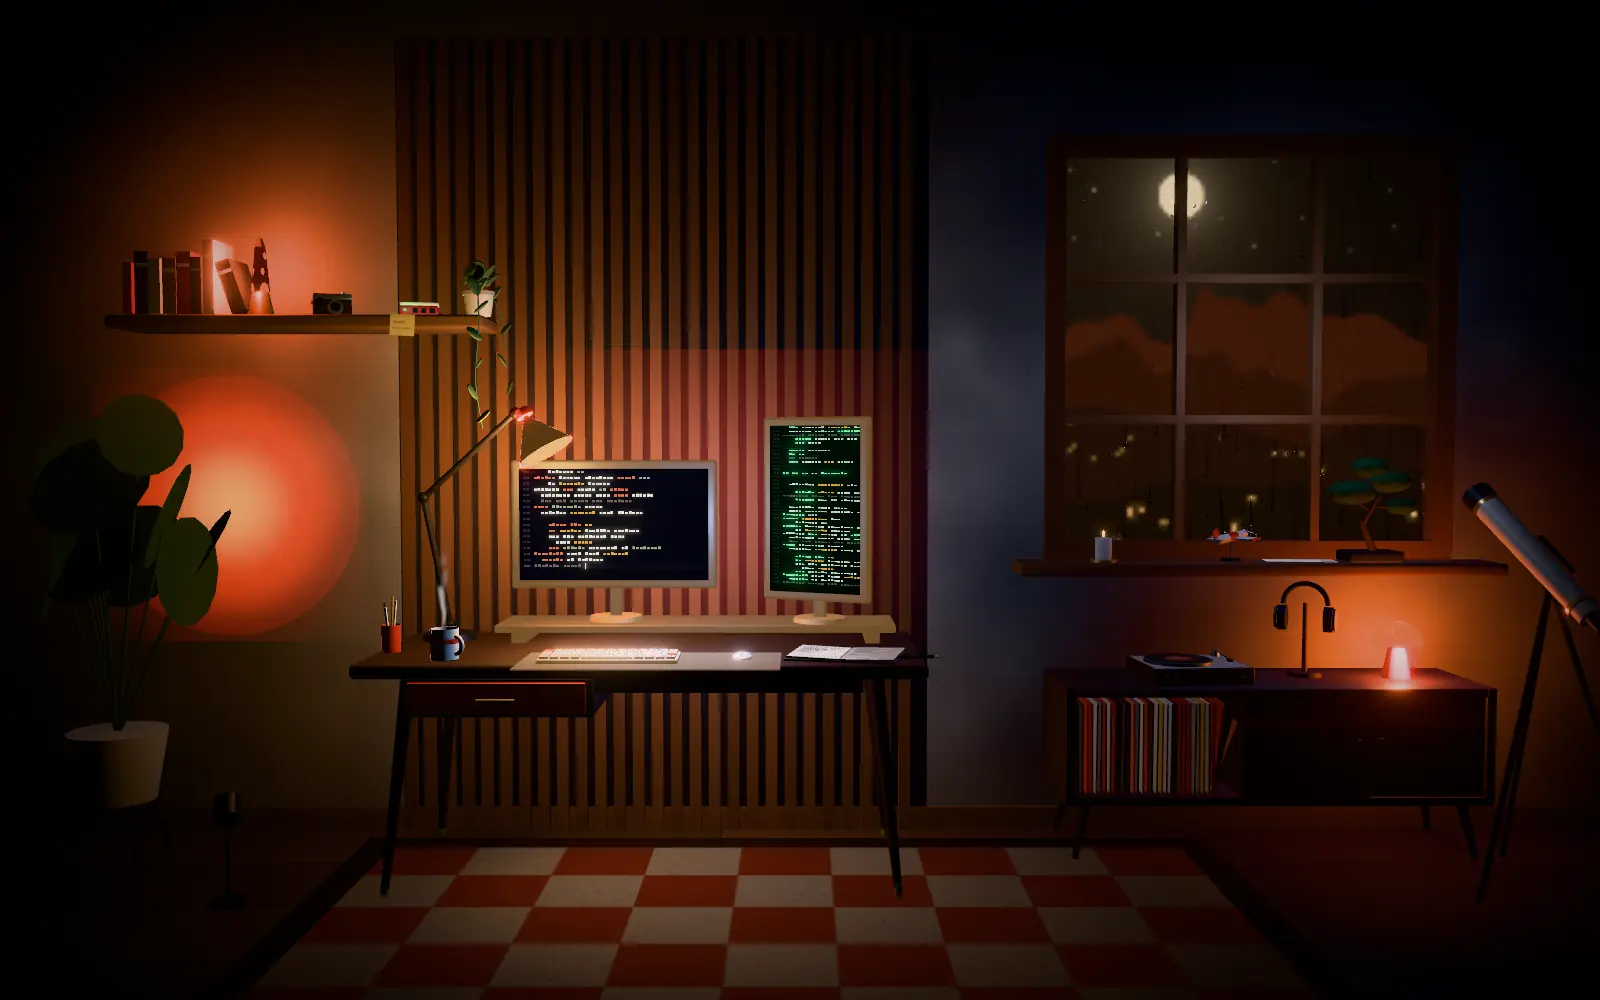
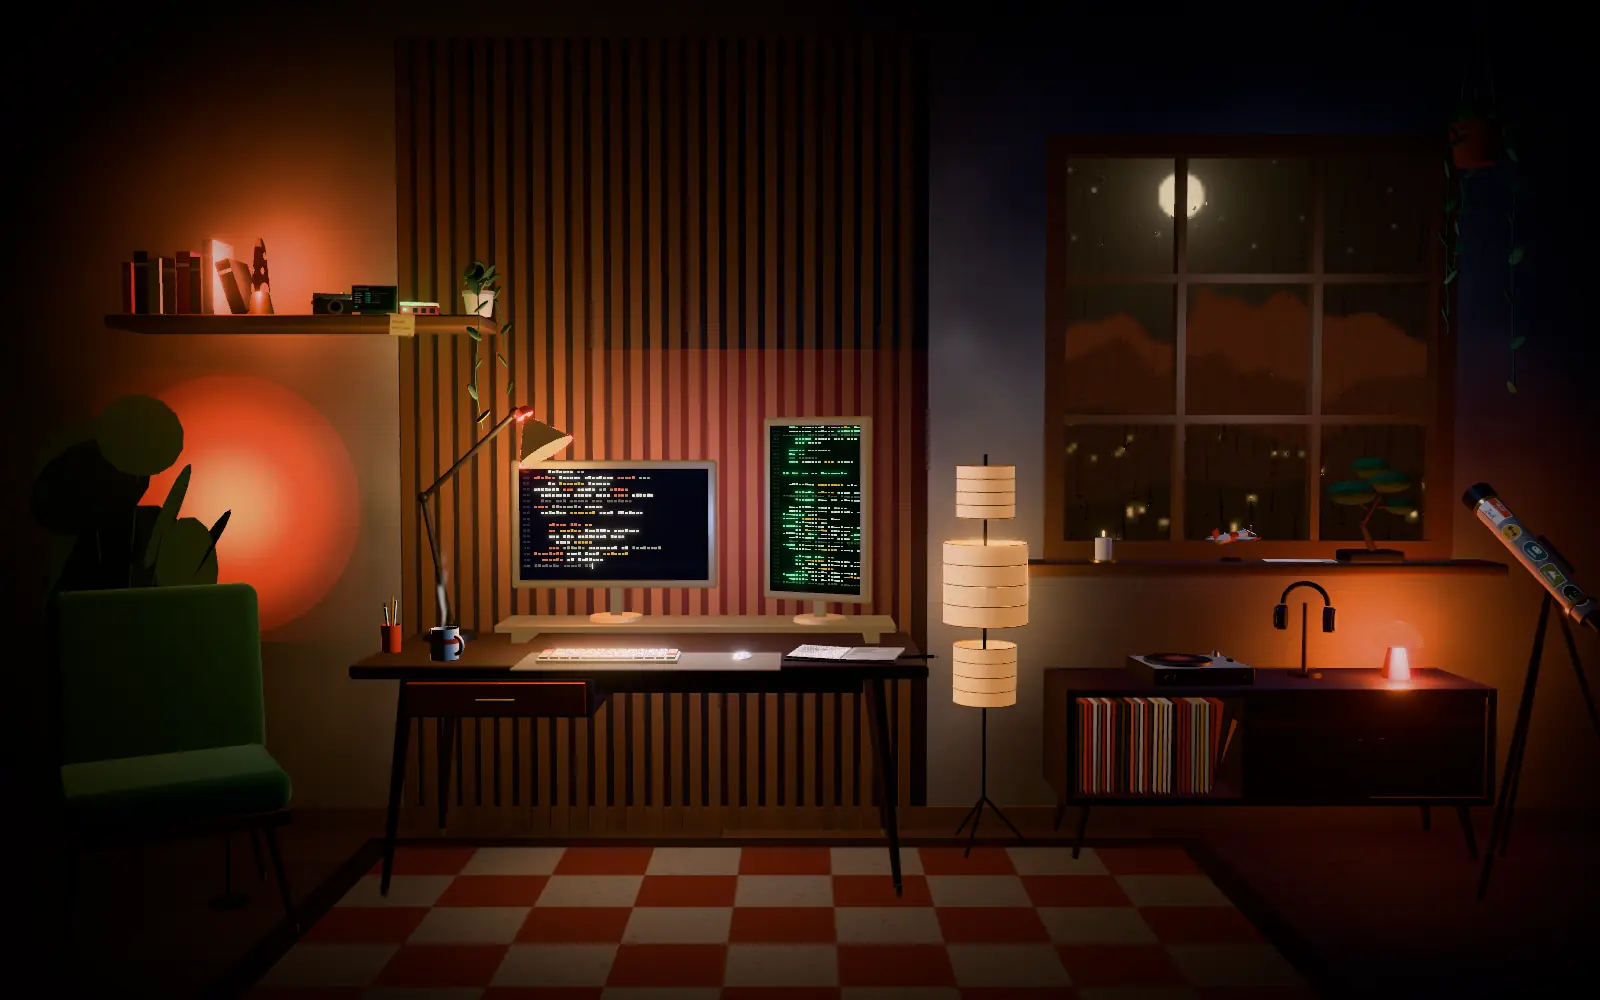
chore(night): re-render poster + OG with the finished room; final verification notes
Claude-Session: https://claude.ai/code/session_018BafqHM7D9m68nik9ahkkp

diff --git a/docs/redesign/night-shift/PROGRESS.md b/docs/redesign/night-shift/PROGRESS.md
@@ -94,3 +94,5 @@ Rules for every session (attended or scheduled):
 - 2026-10-13: Zack: the homelab click zoomed to the wrong spot; drop the constellations; interests are gym, gaming, outdoors, technology. Pi now has a small 5" status display beside it on the shelf showing the `kubectl get pods` terminal (prints on focus, LED flashes per line); Pi shot frames the Pi + display + sticky note; the desk monitor no longer has a homelab mode. `person.interests` updated in `content/site.ts`. `ui/Eyepiece.tsx` removed; telescope first click is a plain close-up until a new idea is picked.
 - 2026-10-13: Telescope first click = sticker-covered tube (Zack's pick from 4 options). `props/stickerTexture.ts`: transparent canvas wrapped on an open cylinder a hair proud of the tube — "HELLO my name is Zack" tag + one die-cut sticker per `person.interests` (gym: mustard round + dumbbell, gaming: teal pill + controller, outdoors: olive tag + mountain, technology: dark pill + `</>`; plain glyphs, no logos), printed on two opposite bands so one faces the room, text along the tube; faint emissive so it reads in the dark corner. Focused, the tube stops following the cursor; new close-up shot; label lowered so it no longer hits the nav.
 - 2026-10-13: R8 done — `props/BoardExtras.tsx`: green velvet MCM lounge chair (physical material with sheen, walnut splayed legs + brass caps, button tufts) left of the desk in front of the sunset disc; tiered washi-paper floor lamp (three glowing barrels with rib rings on a black tripod stem + a warm point light) between the desk and the record console; macramé hanging pothos in a terracotta pot trailing down the window's right edge. Chair + planter join StaticMerge. `vineLeaves`/`LEAF` moved to `props/vine.ts` (shared with the shelf pothos).
+- 2026-10-13: Final verify — every checklist item done. Poster + OG re-rendered with the current room (Pi display, stickers, R8 extras). `eslint .` clean, `npm run build` passes. Scripted check in headless Chromium at 1280×800, normal and reduced motion: all six objects hover → first click (right subtitle) → Open/second click (#work, #projects, #homelab, #about, resume PDF popup, sound on). Phones (390×760): Look around sheet → focus → Open → panel; Pi close-up framed. No-WebGL: poster + "Use the menu" intro. First load ≈ 13KB + 60KB gz; 3D chunks lazy. Ready for Zack's local review before anything touches main.
+- Open question for Zack: `public/audio/{home,about,projects}-ambient.mp3` + `whoosh.mp3` (~19MB) are unused now but not on the PLAN cleanup list — left in place until he says to delete them.
